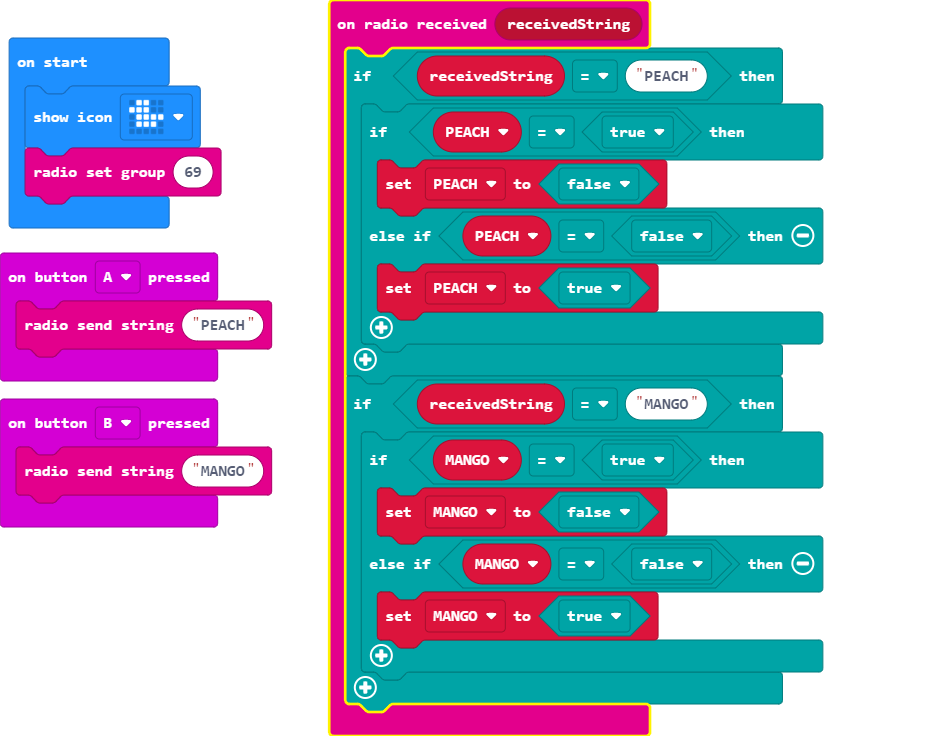
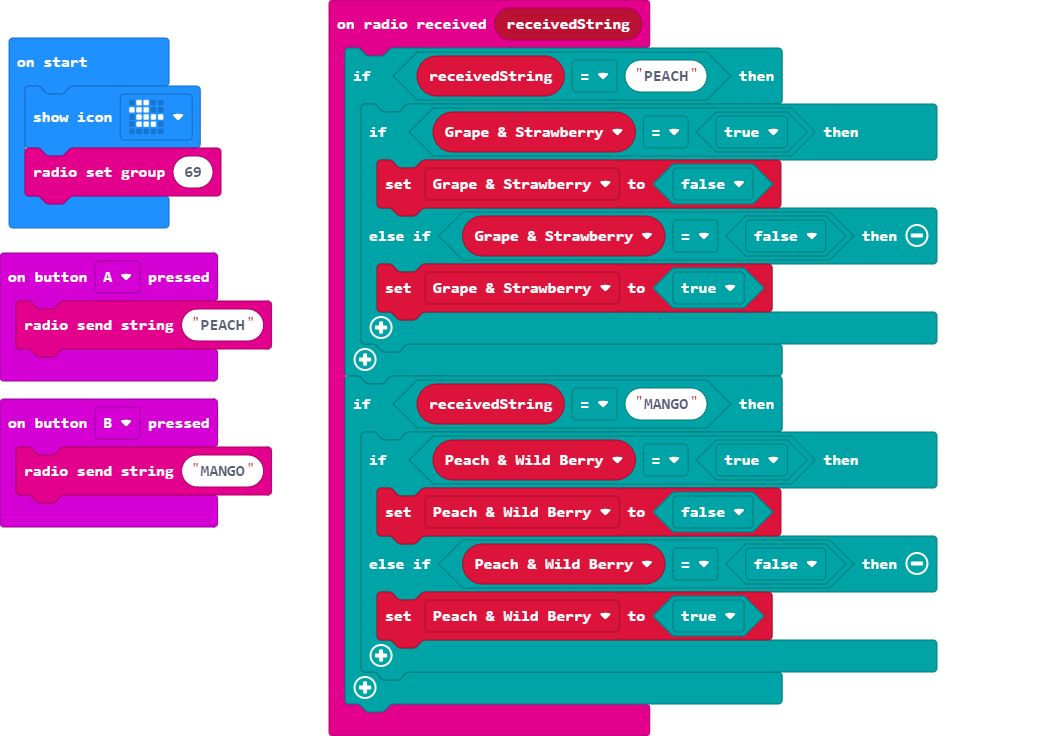
Update main.blocks, main.ts

diff --git a/main.ts b/main.ts
@@ -6,24 +6,24 @@ input.onButtonPressed(Button.A, function () {
 })
 radio.onReceivedString(function (receivedString) {
     if (receivedString == "PEACH") {
-        if (PEACH == true) {
-            PEACH = false
-        } else if (PEACH == false) {
-            PEACH = true
+        if (Grape__Strawberry == true) {
+            Grape__Strawberry = false
+        } else if (Grape__Strawberry == false) {
+            Grape__Strawberry = true
         }
     }
     if (receivedString == "MANGO") {
-        if (MANGO == true) {
-            MANGO = false
-        } else if (MANGO == false) {
-            MANGO = true
+        if (Peach__Wild_Berry == true) {
+            Peach__Wild_Berry = false
+        } else if (Peach__Wild_Berry == false) {
+            Peach__Wild_Berry = true
         }
     }
 })
 input.onButtonPressed(Button.B, function () {
     radio.sendString("MANGO")
 })
-let MANGO = false
-let PEACH = false
+let Peach__Wild_Berry = false
+let Grape__Strawberry = false
 basic.showIcon(IconNames.Duck)
 radio.setGroup(69)
